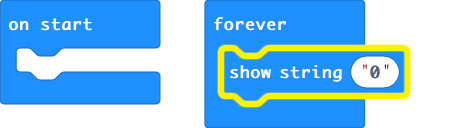
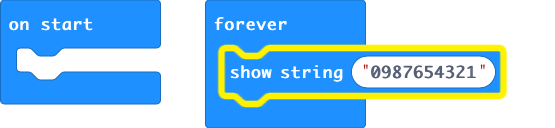
Update main.blocks, main.ts

diff --git a/main.ts b/main.ts
@@ -1,3 +1,3 @@
 basic.forever(function () {
-    basic.showString("0")
+    basic.showString("0987654321")
 })
